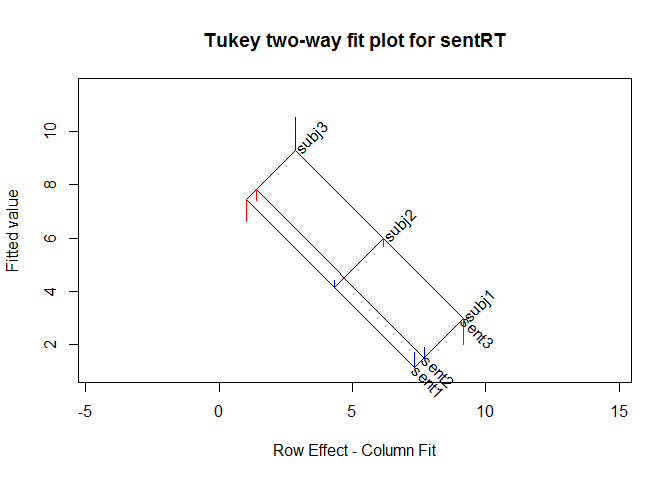
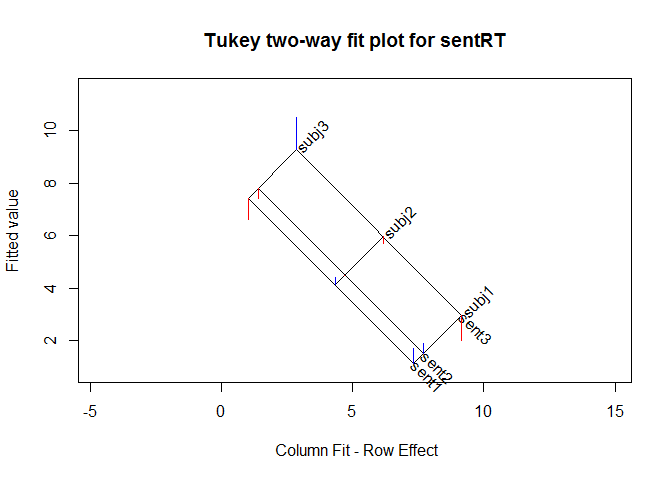
added diagnostic plot to README

diff --git a/README.md b/README.md
@@ -73,6 +73,12 @@ plot(twoway(sentRT))
 
 ![](README-ex1-plot-1.png)
 
+``` r
+plot(twoway(sentRT), which="diagnose")
+```
+
+![](README-ex1-plot2-1.png)
+
 TODOs
 -----
 
